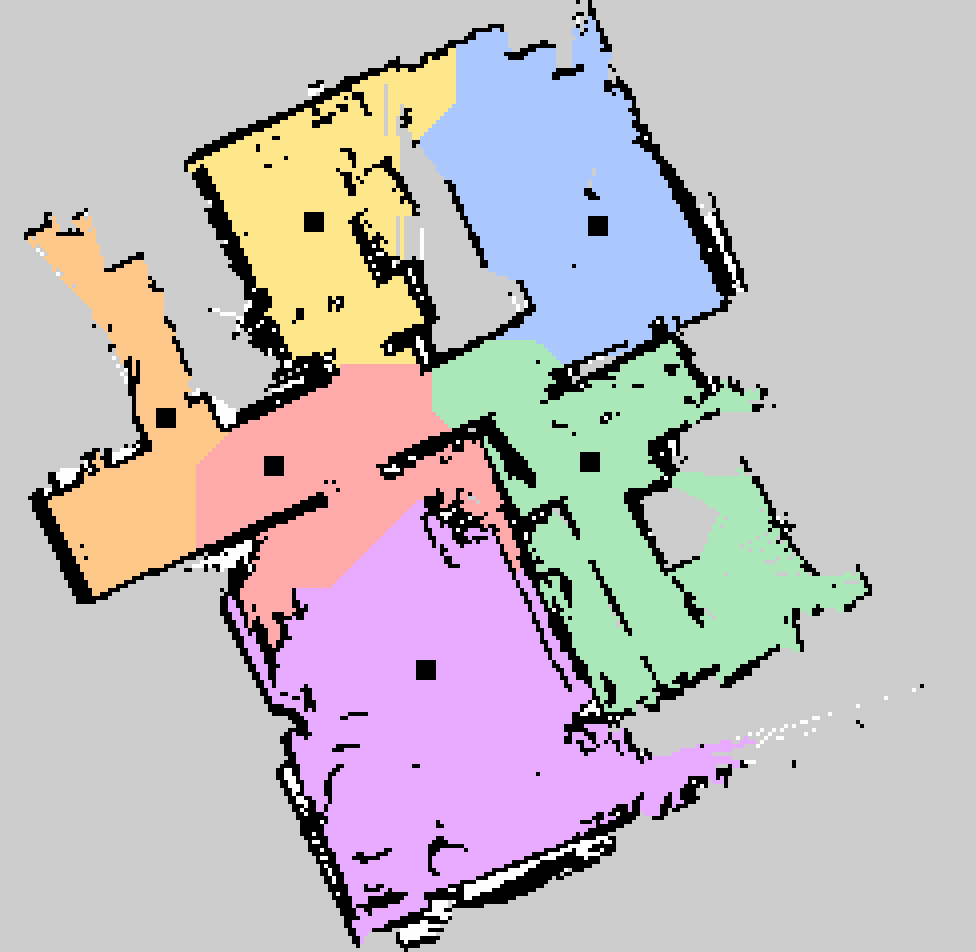
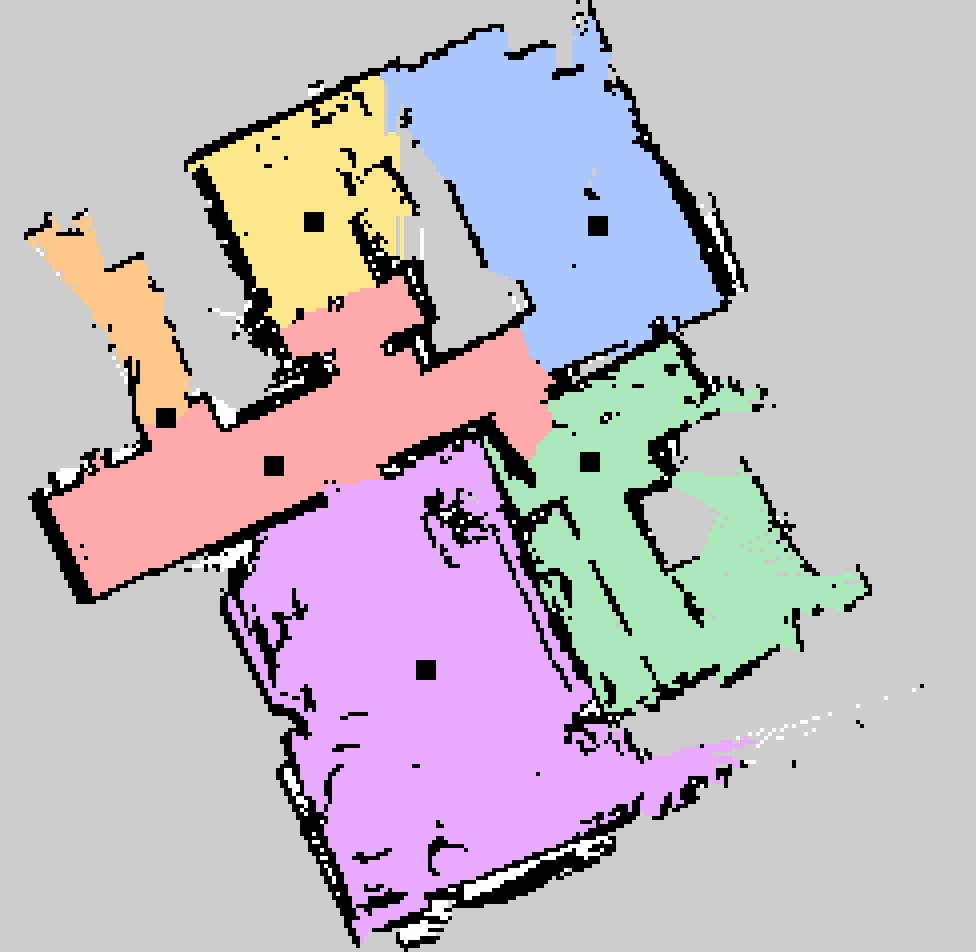
room_mask: segment at doorways (distance watershed) instead of midway between seeds
The equal-speed BFS claimed each free pixel for whichever seed reached it
first, so a border landed halfway between two seeds regardless of any wall in
between. Borders cut straight across open floor, and `diadromos` came out as a
4.0 x 3.5 m block in the middle of the flat rather than a corridor, while
`toualeta` was handed 4.6 m² that was mostly hallway.

Flood in order of decreasing distance-to-wall instead. Each room takes its own
open floor first and only squeezes through a doorway once everything wider is
claimed, so the borders settle in the doorways where a room actually ends.

diadromos is now the long band it should be, and toualeta 1.9 m² — a toilet.
Areas: saloni 17.5, max 9.8, diadromos 9.1, mbamba 8.9, kouzina 4.5,
toualeta 1.9 m². Round-trip re-verified, 80/80 tests pass.

Changed region(s): [[0.2459, 0.2742, 0.584, 0.6702], [0.0307, 0.4265, 0.2459, 0.6397], [0.3689, 0.0609, 0.4918, 0.1523]]

diff --git a/scripts/make_room_mask.py b/scripts/make_room_mask.py
@@ -8,13 +8,14 @@ Re-teach the locations on the new map first (record_location.py --click),
 then run this and review the *_preview.display.png overlay before renaming
 the output to maps/room_mask.png.
 """
+import heapq
 import os
 import sys
-from collections import deque
 
 import numpy as np
 import yaml
 from PIL import Image
+from scipy import ndimage
 
 PKG = os.path.expanduser('~/robot_ws/src/home_robot')
 MAP = sys.argv[1] if len(sys.argv) > 1 else 'kela3'
@@ -37,22 +38,32 @@ _skipped = [n for n in sorted(locs) if n not in colors]
 if _skipped:
     print(f'not rooms (no colour in room_colors.yaml), skipped: {", ".join(_skipped)}')
 label = np.full((h, w), -1, dtype=np.int16)   # -1 = unassigned
-q = deque()
+
+# Distance from every free pixel to the nearest wall — high in the middle of a
+# room, low in a doorway.
+dist = ndimage.distance_transform_edt(free)
+
+heap = []          # (-clearance, row, col): widest pixel is expanded first
 for i, name in enumerate(names):
     col = int((locs[name]['x'] - ox) / res)
     row = h - 1 - int((locs[name]['y'] - oy) / res)
     assert free[row, col], f'seed {name} not on free space!'
     label[row, col] = i
-    q.append((row, col))
+    heapq.heappush(heap, (-dist[row, col], row, col))
 
-# Equal-speed BFS: each free pixel is claimed by whichever seed reaches it first.
-while q:
-    r, c = q.popleft()
+# Watershed on that transform: expanding in order of DECREASING clearance lets
+# each room flood its own open floor first and squeeze through a doorway only
+# once everything wider is taken, so the borders settle in the doorways.
+# An equal-speed BFS instead puts a border halfway between two seeds, which cuts
+# straight across open floor — that is what gave `diadromos` a 4.0 x 3.5 m block
+# of the flat instead of a corridor.
+while heap:
+    _, r, c = heapq.heappop(heap)
     for dr, dc in ((-1, 0), (1, 0), (0, -1), (0, 1)):
         rr, cc = r + dr, c + dc
         if 0 <= rr < h and 0 <= cc < w and free[rr, cc] and label[rr, cc] == -1:
             label[rr, cc] = label[r, c]
-            q.append((rr, cc))
+            heapq.heappush(heap, (-dist[rr, cc], rr, cc))
 
 # RGBA mask: colored where labeled, transparent elsewhere.
 mask = np.zeros((h, w, 4), dtype=np.uint8)
